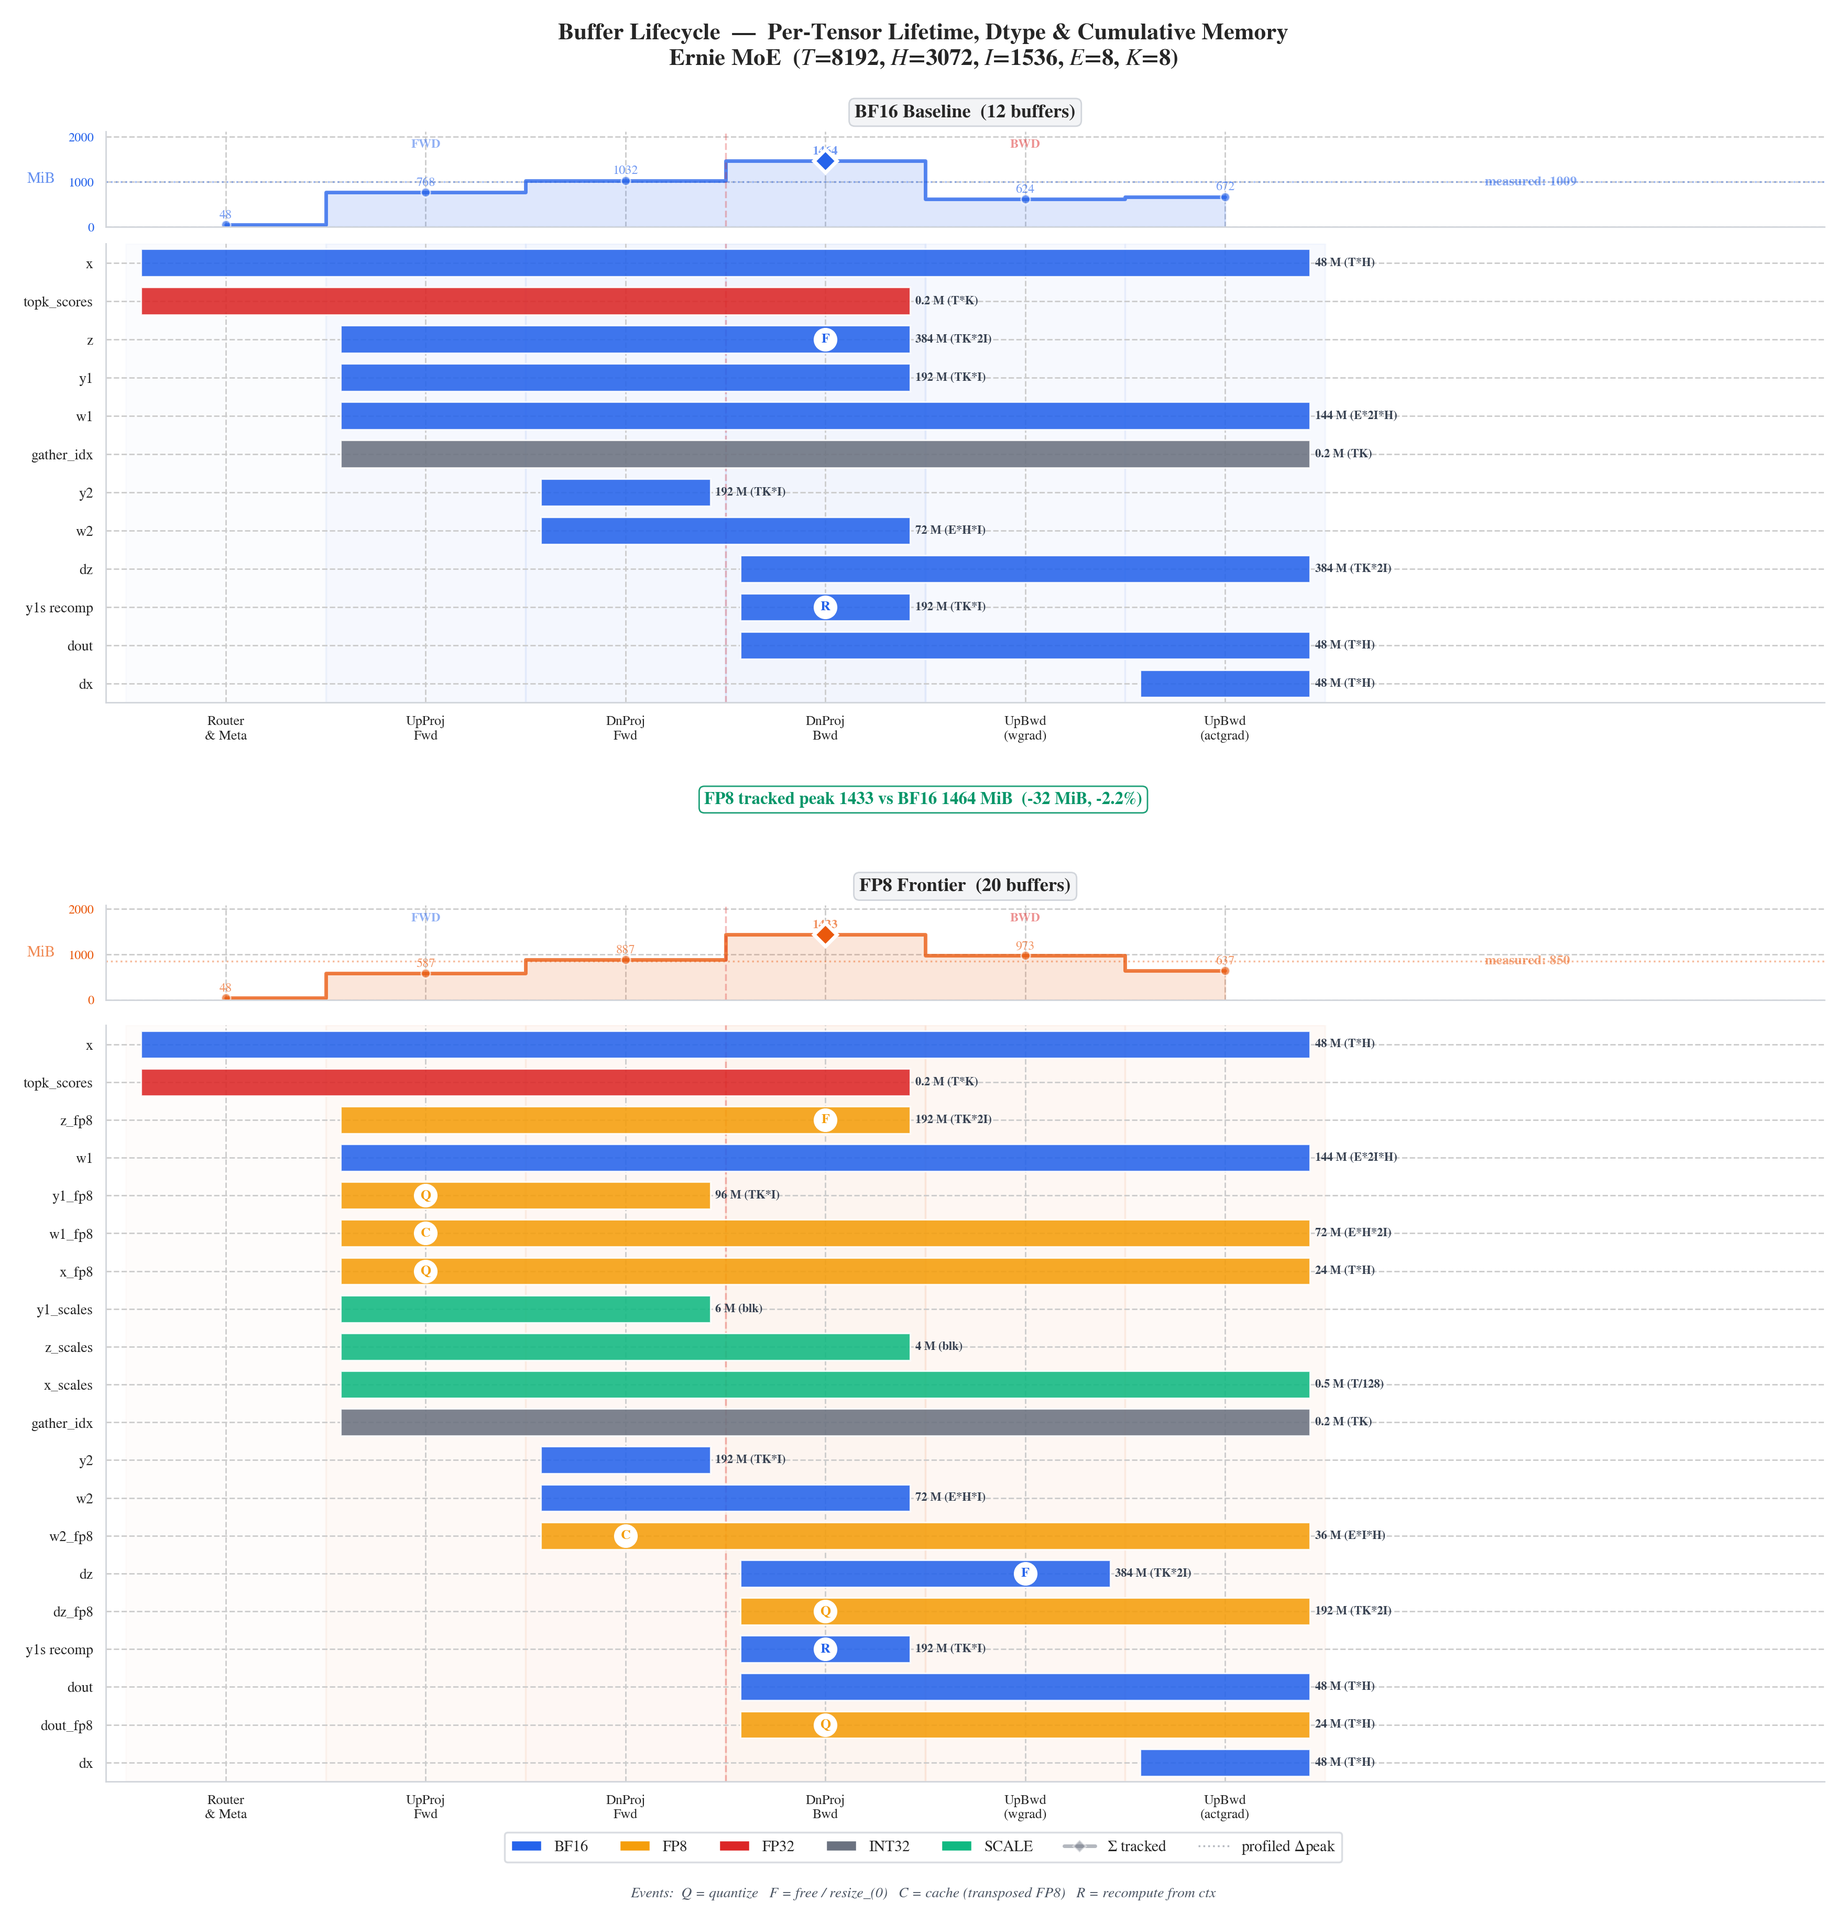
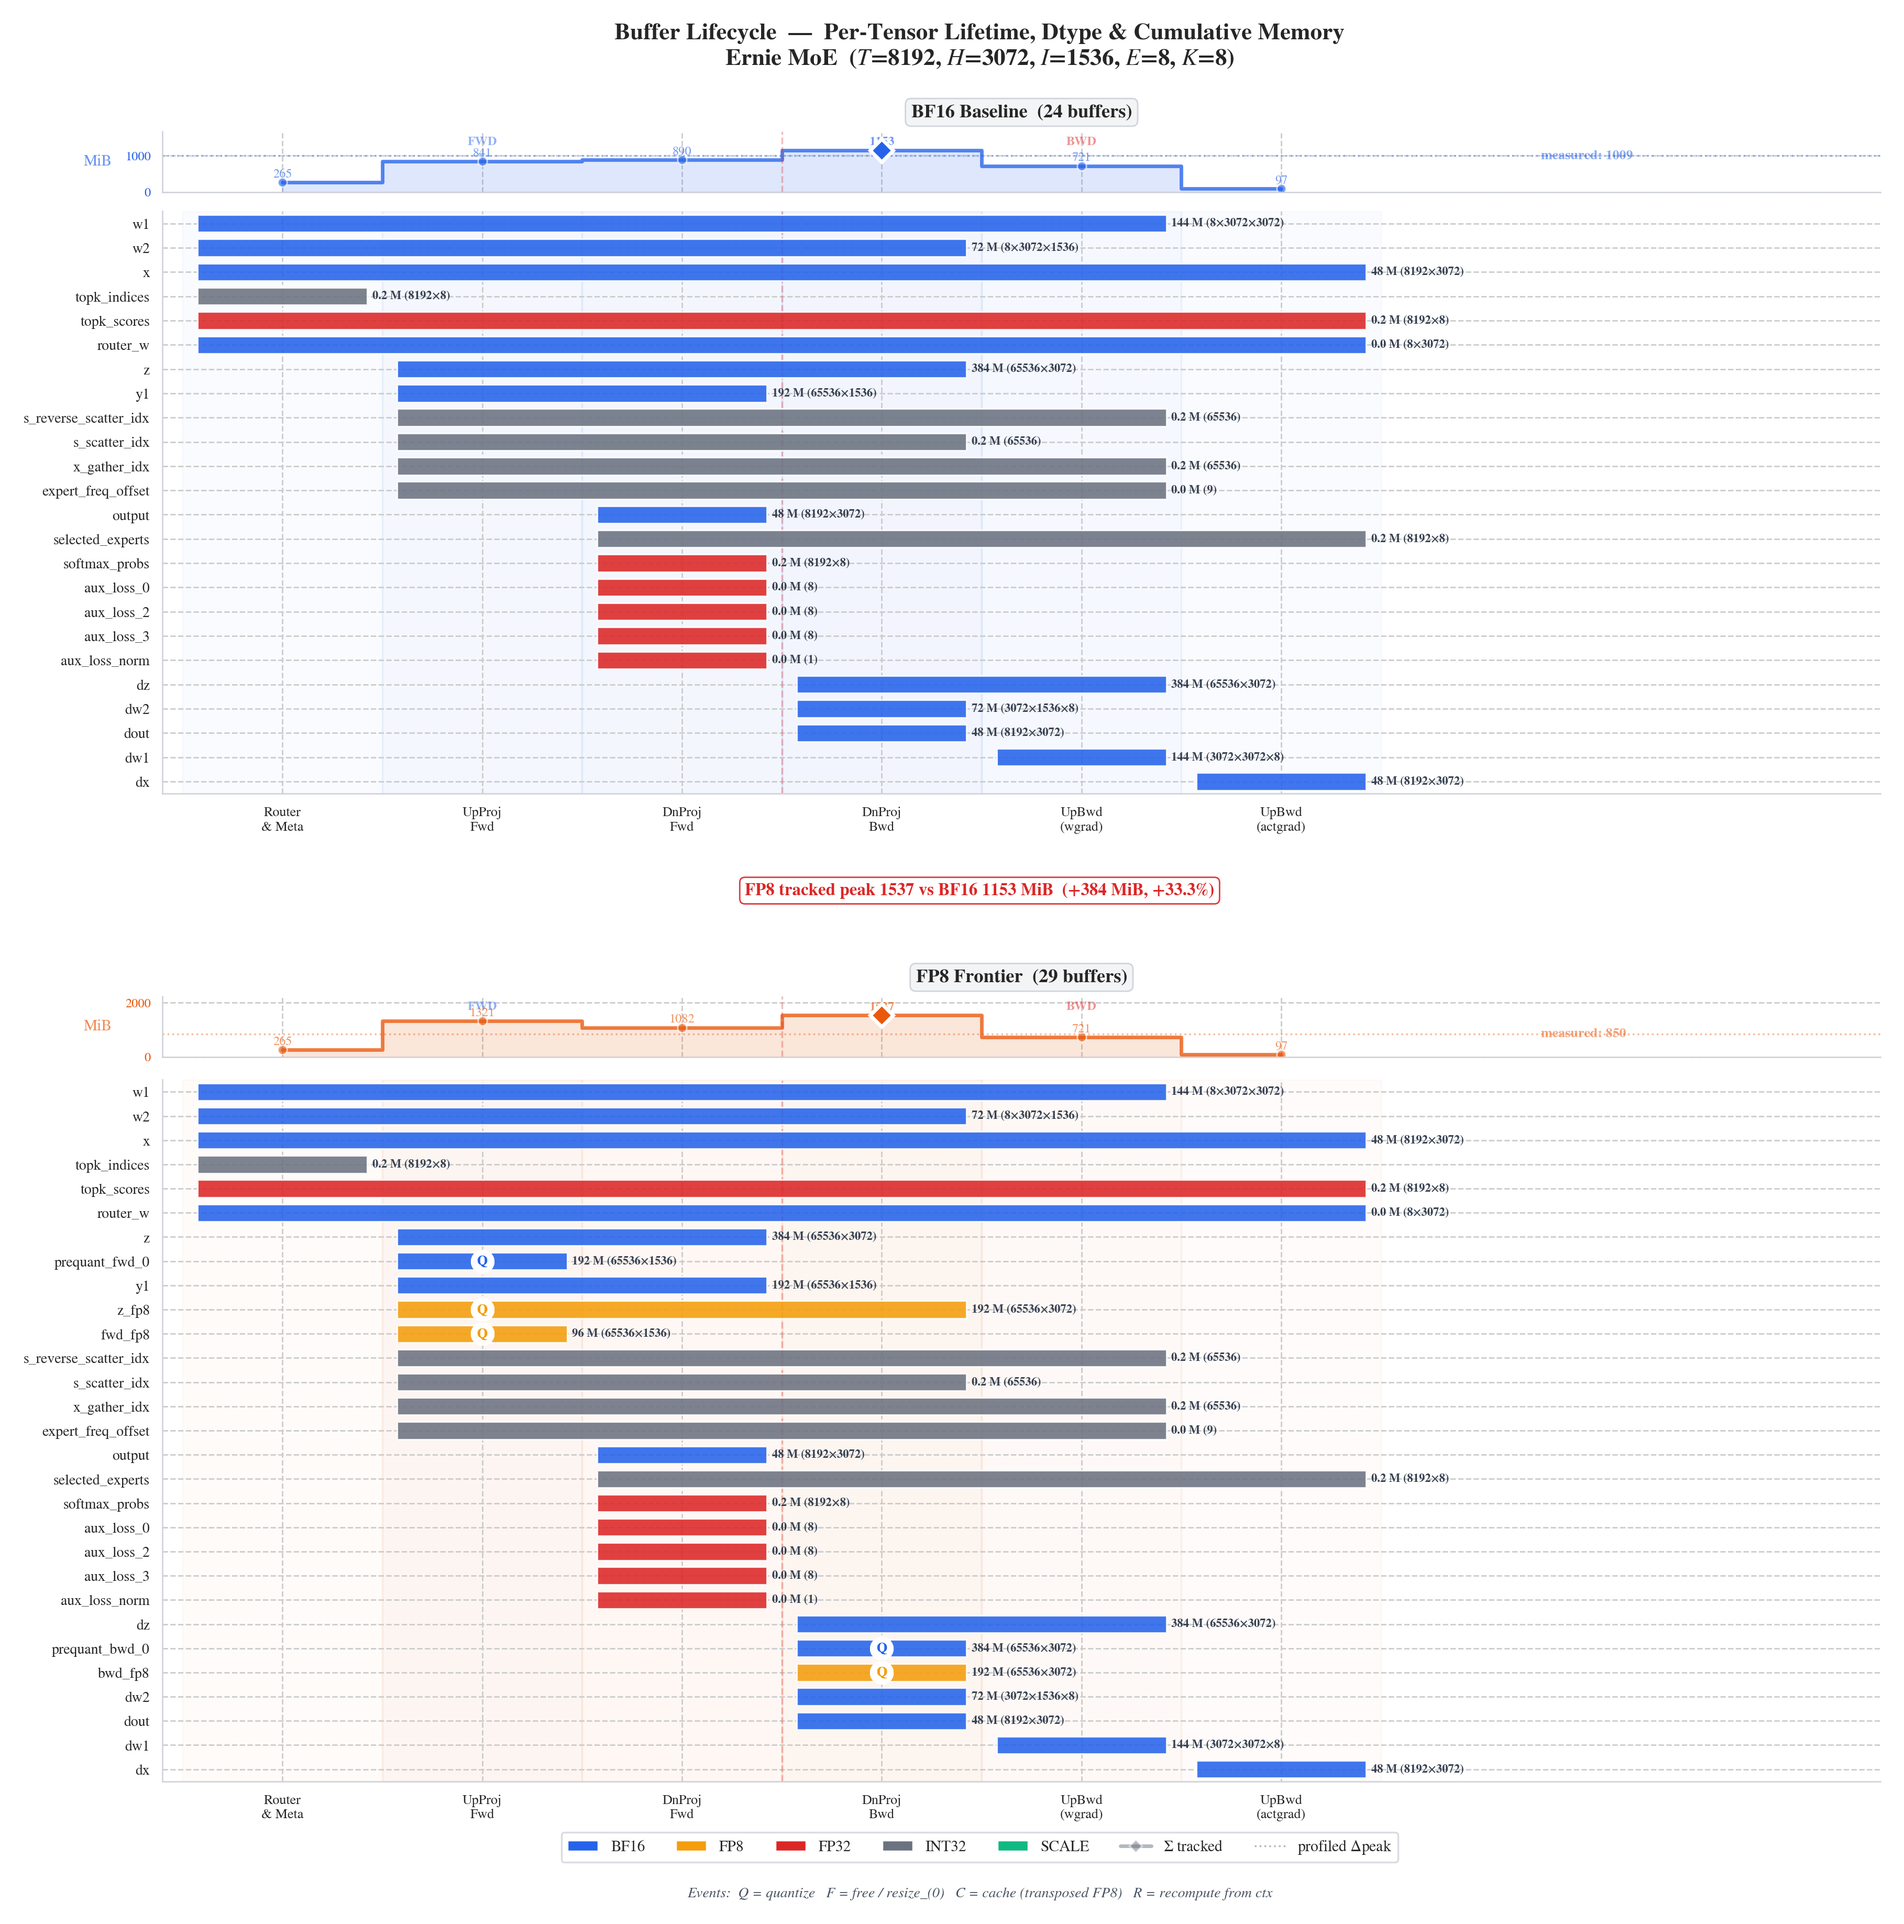
feat: manifest-driven visualization + cleanup stale assets
- sonicmoe_dataflow.py: fig9 and fig7 now load data from manifest.json
  when available, with fallback to hardcoded constants.
- Added _load_manifest(), _manifest_bufs(), _manifest_memory_trajectory(),
  _manifest_precision_audit() helper functions.
- Removed stale duplicate figure PNGs (old naming convention).
- Updated fig9 with latest profiling data.

diff --git a/visualization/sonicmoe_dataflow.py b/visualization/sonicmoe_dataflow.py
@@ -68,6 +68,81 @@ def _load_profiling_data():
     return mem, kern
 
 
+def _load_manifest() -> Optional[dict]:
+    """Load introspection manifest if available.
+
+    The manifest is produced by ``tools/introspect.py`` and contains
+    auto-extracted tensor lifecycle, memory trajectory, kernel timing,
+    and precision data.  When present, visualization figures can derive
+    data from it instead of hardcoded constants.
+    """
+    manifest_path = ROOT / "manifest.json"
+    if not manifest_path.exists():
+        return None
+    try:
+        m = json.loads(manifest_path.read_text())
+        if m.get("version", 0) >= 1:
+            return m
+    except (json.JSONDecodeError, KeyError):
+        pass
+    return None
+
+
+def _manifest_bufs(manifest: dict, mode: str) -> Optional[list]:
+    """Convert manifest tensor records to _Buf objects for fig9.
+
+    Filters out trivially small tensors (< 0.1 MiB) to keep the Gantt
+    chart readable — they contribute negligible memory pressure.
+    Returns None if manifest doesn't have the required data.
+    """
+    mode_data = manifest.get("modes", {}).get(mode)
+    if not mode_data or "tensors" not in mode_data:
+        return None
+
+    _MIN_MIB = 0.1  # omit buffers below this threshold
+
+    bufs = []
+    for t in mode_data["tensors"]:
+        size = t.get("size_mib", 0)
+        if size < _MIN_MIB:
+            continue
+        dtype_map = {
+            "torch.bfloat16": "BF16",
+            "torch.float8_e4m3fn": "FP8",
+            "torch.float32": "FP32",
+            "torch.int32": "INT32",
+            "torch.uint8": "SCALE",
+        }
+        dtype_str = dtype_map.get(t["dtype"], "BF16")
+        shape_str = "×".join(str(s) for s in t["shape"])
+        alive = (t.get("create_phase", 0), t.get("free_phase", 5))
+        events = []
+        for ev in t.get("events", []):
+            if "prequant" in ev:
+                phase = alive[0]
+                events.append((phase, "\u26a1"))
+            elif "recomp" in ev.lower():
+                events.append((alive[0], "\u21bb"))
+        bufs.append(_Buf(
+            name=t["name"], dtype=dtype_str, shape=shape_str,
+            mib=size, alive=alive, events=events,
+        ))
+    return bufs if bufs else None
+
+
+def _manifest_memory_trajectory(manifest: dict, mode: str) -> Optional[dict]:
+    """Extract memory trajectory from manifest for a given mode."""
+    mode_data = manifest.get("modes", {}).get(mode)
+    if not mode_data:
+        return None
+    return mode_data.get("memory_trajectory")
+
+
+def _manifest_precision_audit(manifest: dict) -> Optional[dict]:
+    """Extract precision audit data from manifest."""
+    return manifest.get("precision_audit")
+
+
 def _categorize_kernel(name: str) -> str:
     """Map torch.profiler kernel name to a human-readable category."""
     if "GemmDefault" in name and "Sm100" in name:
@@ -943,10 +1018,22 @@ def fig7_precision_profile() -> None:
                                                  "width_ratios": [2, 1]})
     fig.subplots_adjust(top=0.82, bottom=0.16)
 
+    # Try manifest precision data, fall back to hardcoded
+    manifest = _load_manifest()
+    pa = _manifest_precision_audit(manifest) if manifest else None
+    if pa and "rrmse_pct" in pa:
+        rr = pa["rrmse_pct"]
+        vals_a = [rr.get("output", 6.60), rr.get("dx", 7.48),
+                  rr.get("dw1", 0.45), rr.get("dw2", 0.50)]
+        cs = pa.get("cosine_sim", {})
+        vals_b = [cs.get("output", 0.998), cs.get("dx", 0.997)]
+    else:
+        vals_a = [6.60, 7.48, 0.45, 0.50]
+        vals_b = [0.998, 0.997]
+
     # ── (a) Relative Error ───────────────────────────────────────────────
     metrics_a = ["output\nRRMSE", "$\\partial x$\nRRMSE",
                  "$\\partial w_1$\nnorm rel err", "$\\partial w_2$\nnorm rel err"]
-    vals_a = [6.60, 7.48, 0.45, 0.50]
     x = np.arange(len(metrics_a))
     bars = ax1.bar(x, vals_a, 0.52, color=C_FP8, edgecolor="white",
                    linewidth=1.2, zorder=3, alpha=0.85)
@@ -969,7 +1056,6 @@ def fig7_precision_profile() -> None:
 
     # ── (b) Cosine Similarity ────────────────────────────────────────────
     metrics_b = ["output", "$\\partial x$"]
-    vals_b = [0.998, 0.997]
     x2 = np.arange(len(metrics_b))
     bars2 = ax2.bar(x2, vals_b, 0.42, color=C_ACCENT, edgecolor="white",
                     linewidth=1.2, zorder=3, alpha=0.85)
@@ -1264,7 +1350,15 @@ def _draw_gantt(ax: plt.Axes, bufs: list[_Buf], *,
 def fig9_buffer_lifecycle() -> None:
     """Per-buffer lifecycle Gantt with cumulative memory strip above each panel."""
     mem_data, _ = _load_profiling_data()
-    bf16, fp8 = _bf16_bufs(), _fp8_bufs()
+
+    # Try manifest-derived buffers first, fall back to hardcoded
+    manifest = _load_manifest()
+    bf16_m = _manifest_bufs(manifest, "bf16") if manifest else None
+    fp8_m = _manifest_bufs(manifest, "fp8") if manifest else None
+    bf16 = bf16_m if bf16_m else _bf16_bufs()
+    fp8 = fp8_m if fp8_m else _fp8_bufs()
+    data_source = "manifest" if bf16_m else "hardcoded"
+
     n_b, n_f = len(bf16), len(fp8)
 
     # Use profiled peak deltas (above pre-fwd) as measured reference
